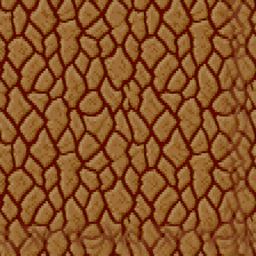
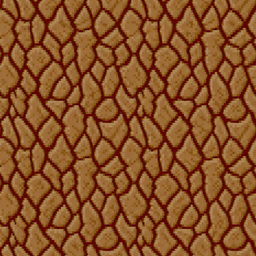
buck-rogers: pattern-aligned seam in make_floor tile(), redo 6 banded BR1 floors/ceilings and their PixelLab pixel variants

diff --git a/tools/remaster/make_floor.py b/tools/remaster/make_floor.py
@@ -20,17 +20,35 @@ rw.__file__ = str(RW)
 exec(compile(RW.read_text().replace('    nm.CONFIG["imageConfig"]["aspectRatio"] = "1:1"\n', ""), str(RW), "exec"), rw.__dict__)
 
 
+def _cut(a, axis):
+    """Crop along axis where the picture repeats: the span [s, s+p) (p >= 5/8 of the side) whose end lines
+    best match its start lines, then fade the last n/32 lines into the lines just before s (their true
+    continuation), so the wrap is seamless without the ghost bands of a wide crossfade of unrelated content."""
+    a = np.moveaxis(a, axis, 0)
+    n = a.shape[0]
+    L = a[:, ::4].reshape(n, -1)
+    D = np.empty((n, n), np.float32)
+    for i in range(0, n, 128):
+        D[i:i + 128] = np.abs(L[i:i + 128, None] - L[None]).mean(2)
+    b = n // 32
+    best = None
+    for p in range(n * 5 // 8, n - b - 1):
+        s = np.arange(b, n - p - 1)
+        sc = sum(D[s + k, s + p + k] for k in (-1, 0, 1))
+        i = sc.argmin()
+        if best is None or sc[i] < best[0]:
+            best = (sc[i], s[i], p)
+    _, s, p = best
+    out = a[s:s + p].copy()
+    t = np.linspace(0, 1, b + 2)[1:-1].reshape(-1, *[1] * (a.ndim - 1))
+    out[p - b:] = out[p - b:] * (1 - t) + a[s - b:s] * t
+    return np.moveaxis(out, 0, axis)
+
+
 def tile(im):
-    """Crossfade the outer bands in both axes so the texture repeats without seams."""
-    a = np.asarray(im.convert("RGB"), np.float32)
-    for axis in (1, 0):
-        n = a.shape[axis]
-        b = n // 8
-        t = np.linspace(0, 1, b).reshape((1, b, 1) if axis == 1 else (b, 1, 1))
-        lo = np.take(a, range(b), axis=axis)
-        hi = np.take(a, range(n - b, n), axis=axis)
-        a = np.concatenate([np.take(a, range(b, n - b), axis=axis), hi * (1 - t) + lo * t], axis=axis)
-    return Image.fromarray(a.astype(np.uint8), "RGB").resize((256, 256), Image.LANCZOS)
+    """A seamless 256x256 tile: pattern-aligned crop in both axes (_cut)."""
+    a = _cut(_cut(np.asarray(im.convert("RGB"), np.float32), 1), 0)
+    return Image.fromarray(a.clip(0, 255).astype(np.uint8), "RGB").resize((256, 256), Image.LANCZOS)
 
 
 names = [a for a in sys.argv[2:] if not a.startswith("--")]
